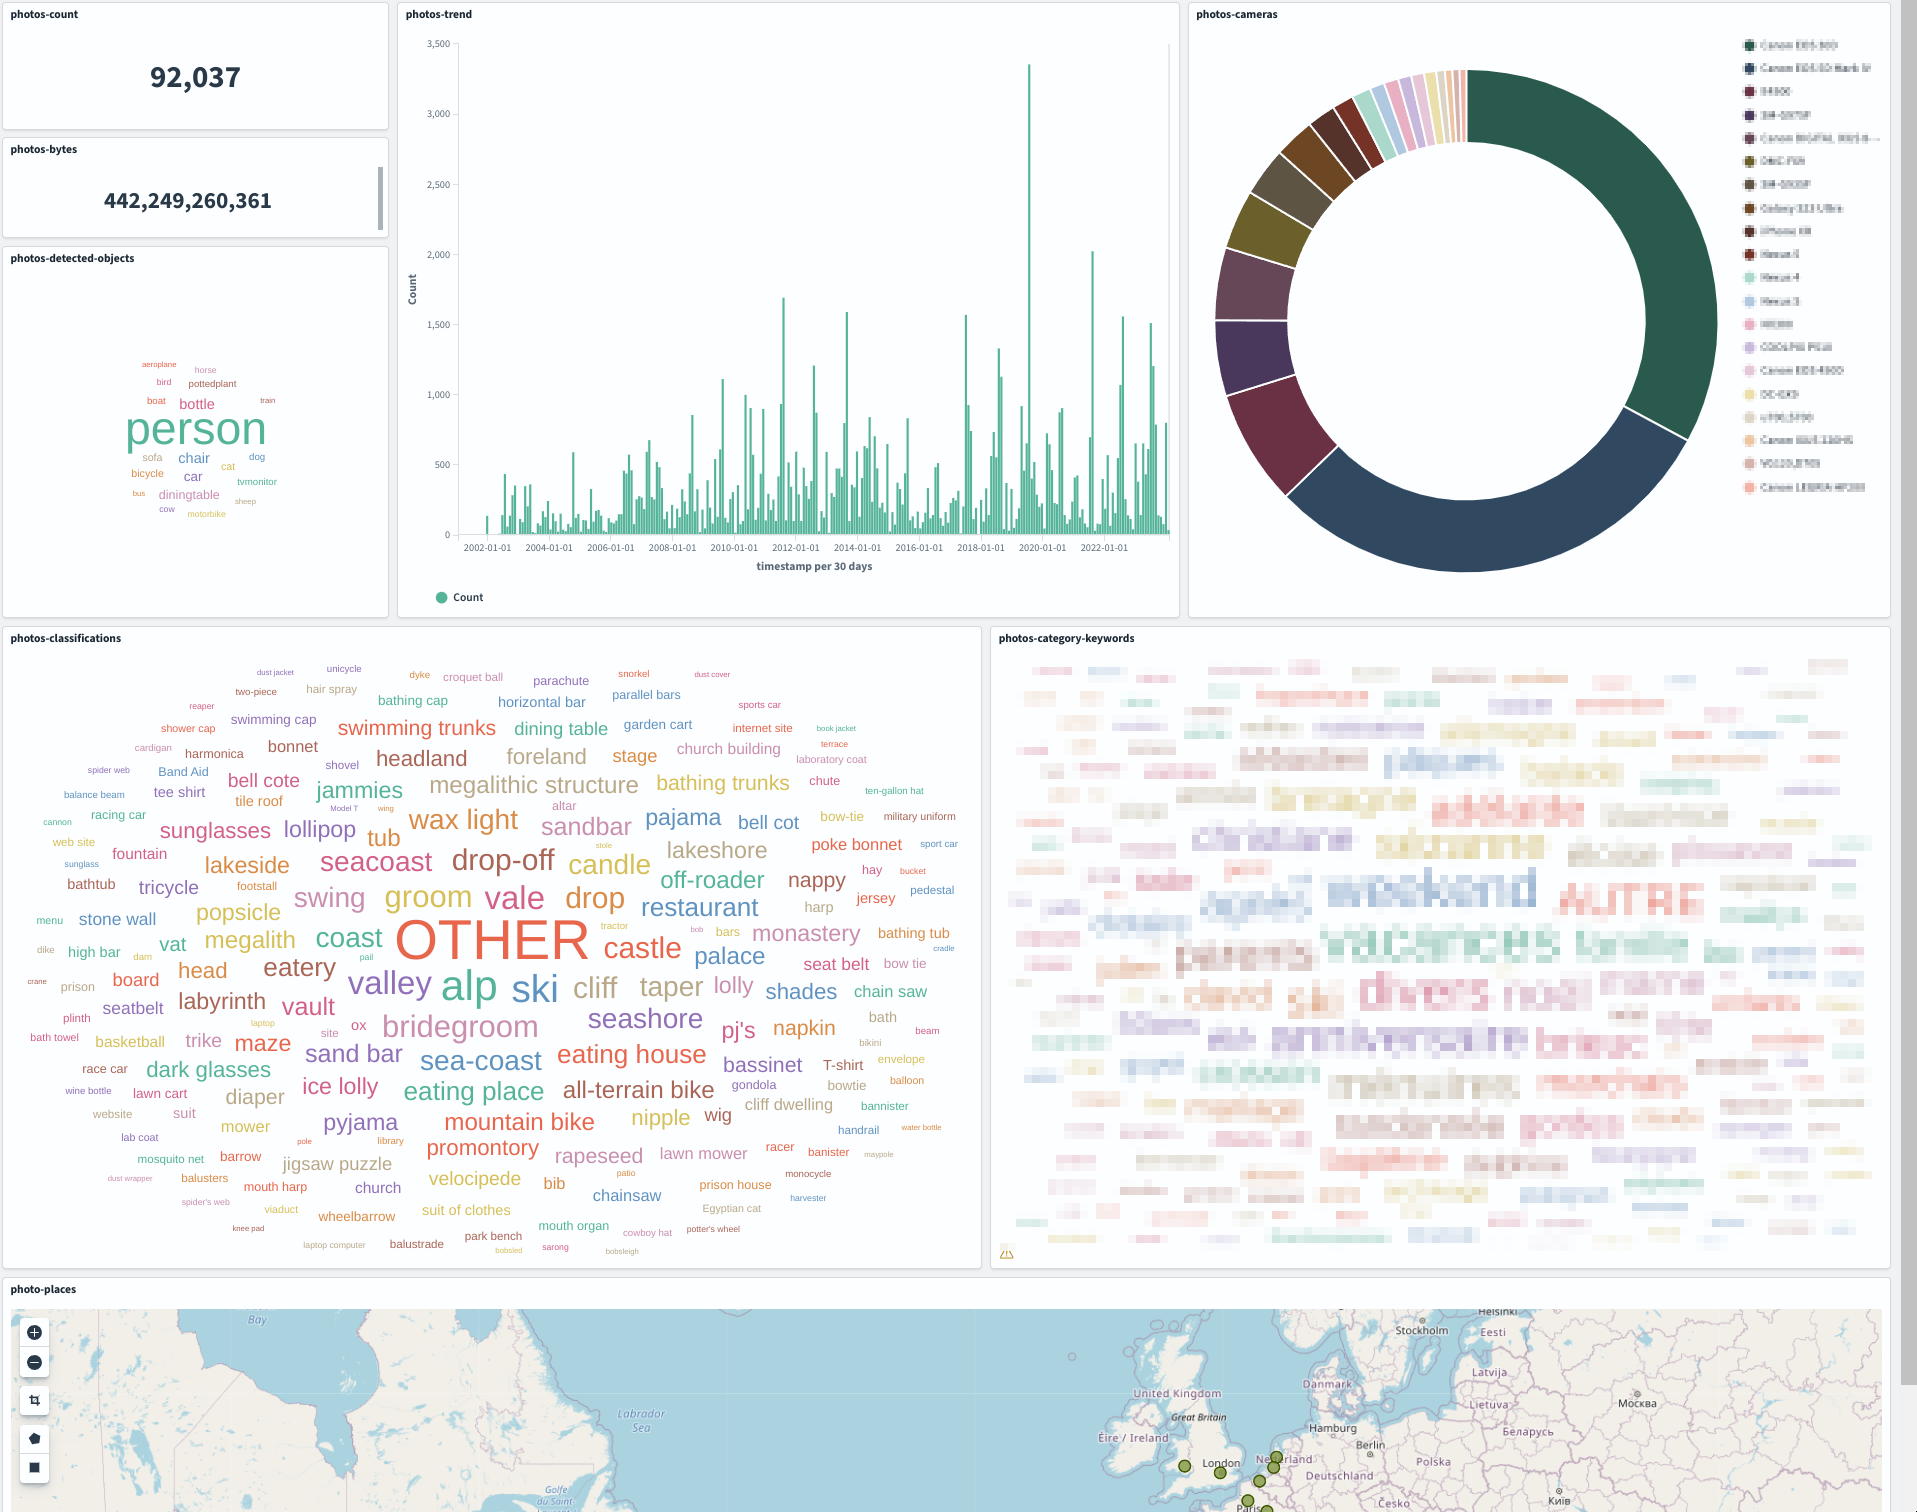
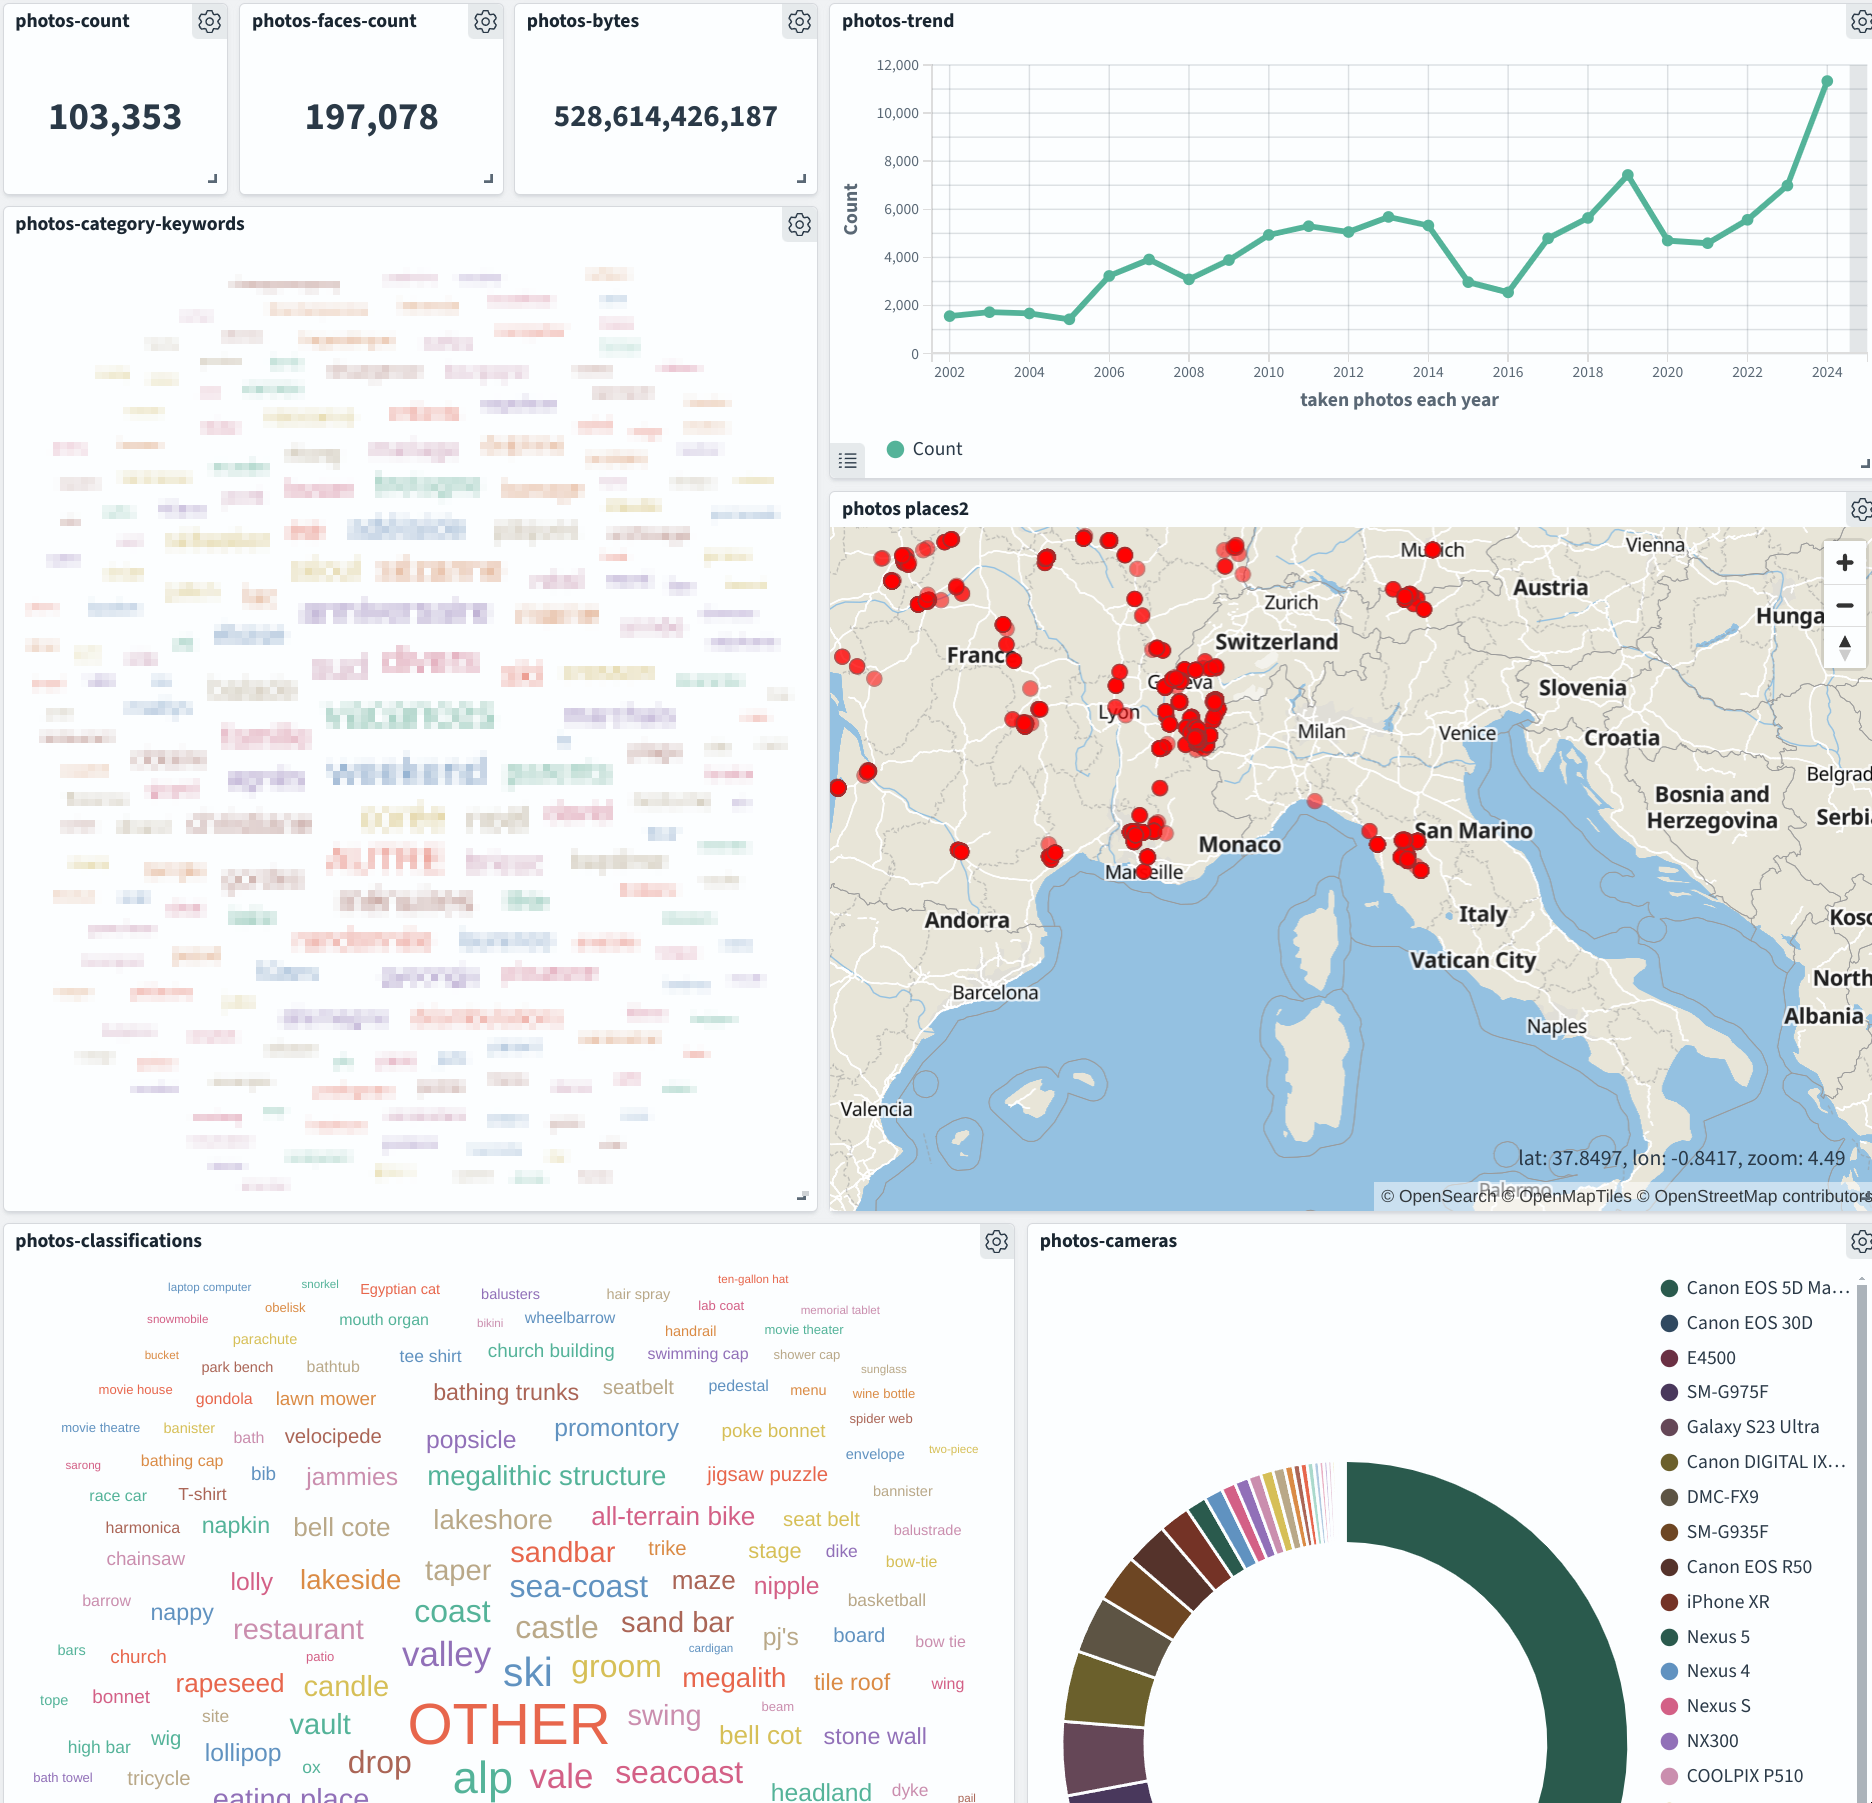
Enhance README

diff --git a/README.md b/README.md
@@ -1,6 +1,6 @@
 # SOTOHP [![][sotohpImg]][sotohpLnk]
 
-A software to easily and quickly manage a huge amount of photos. Why ? Just because those past 23 years, I've taken more than 90000
+A software to easily and quickly manage a huge amount of photos. Why ? Just because those past 23 years, I've taken more than 103000
 photos. Once again this project has first started as just [a "small" script][photosc].
 
 ## Principles
@@ -25,7 +25,7 @@ photos. Once again this project has first started as just [a "small" script][pho
   - publishing photo records to elasticsearch / opensearch
   - searching and statistics purposes
 
-The visualisation with the graphical user interface is very fast :) It starts in 2 seconds even with my 92000 photo database.  
+The visualisation with the graphical user interface is very fast :) It starts in 2 seconds even with my 103000 photo database.  
 ![](gui-viewer.png)
 
 Published information to elasticsearch or opensearch make it easy to build very interesting dashboards such as :
